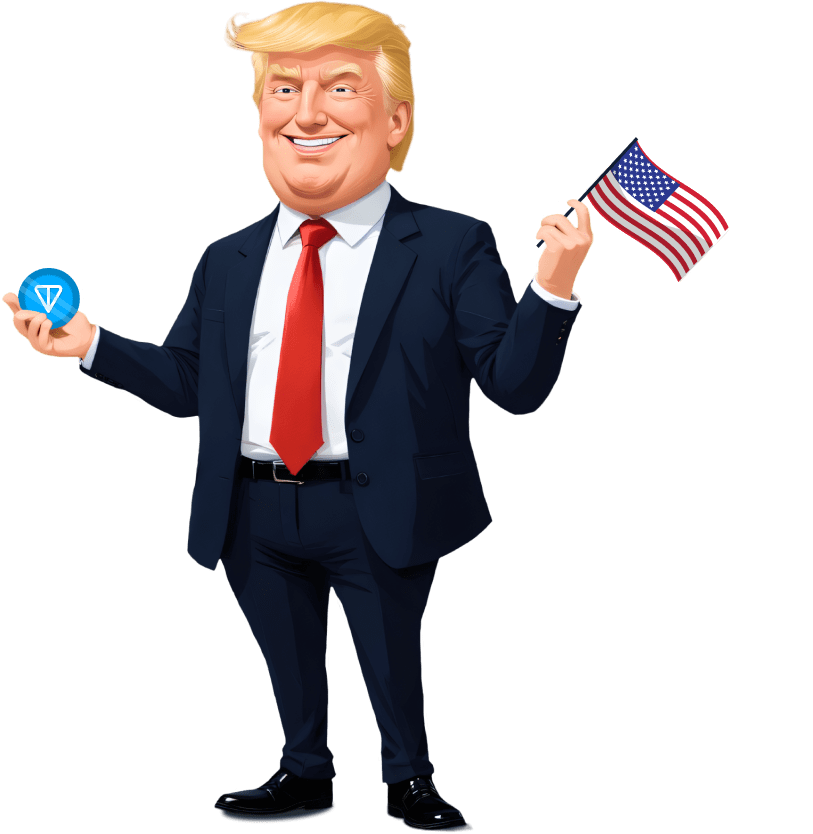
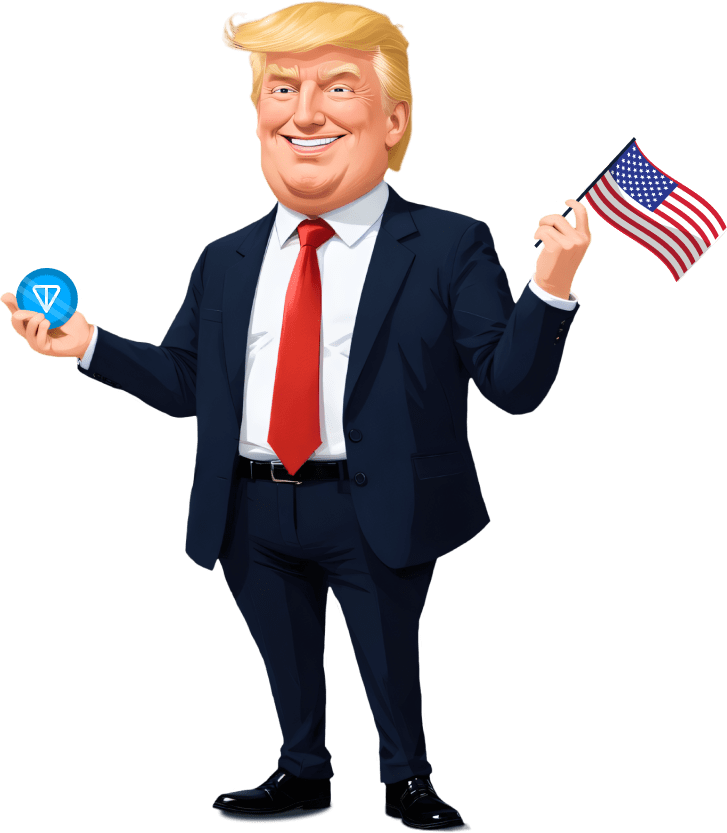
update

Changed region(s): [[0.0, 0.0, 0.9986, 0.9988]]

diff --git a/src/components/Section1.tsx b/src/components/Section1.tsx
@@ -29,7 +29,7 @@ export const Section1 = () => {
           visible: { transform: "translateX(0)" },
           hidden: { transform: "translateX(-100%)" },
         }}
-        className="w-[280px] h-[280px] absolute bottom-0 -left-36 xl:left-0 z-20"
+        className="w-[180px] h-[180px] lg:w-[280px] lg:h-[280px] absolute bottom-[5%] lg:bottom-0 -left-20 lg:-left-36 xl:left-0 z-20"
       >
         <Image
           src="/assets/fireworks-left.png"
@@ -115,7 +115,7 @@ export const Section1 = () => {
         >
           <div className="relative lg:absolute lg:left-0 lg:top-1/2 lg:-translate-y-1/2 w-full lg:w-[400px] xl:w-[750px] h-auto lg:h-[400px] xl:h-[800px]">
             <Image
-              src="/assets/trump.webp"
+              src="/assets/trump.png"
               sizes="50wv"
               width={812}
               height={833}
